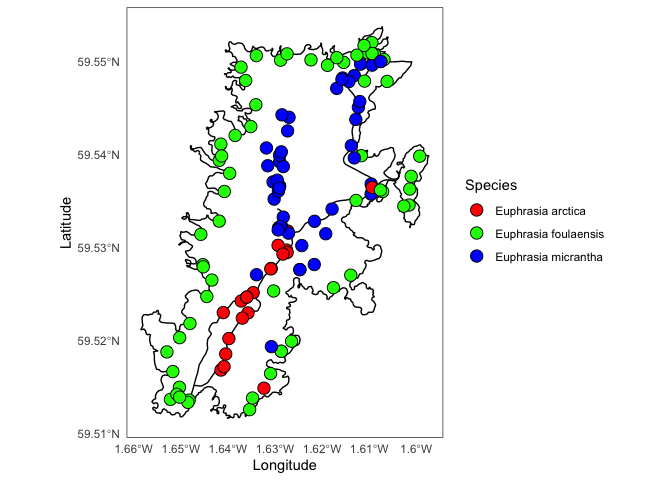
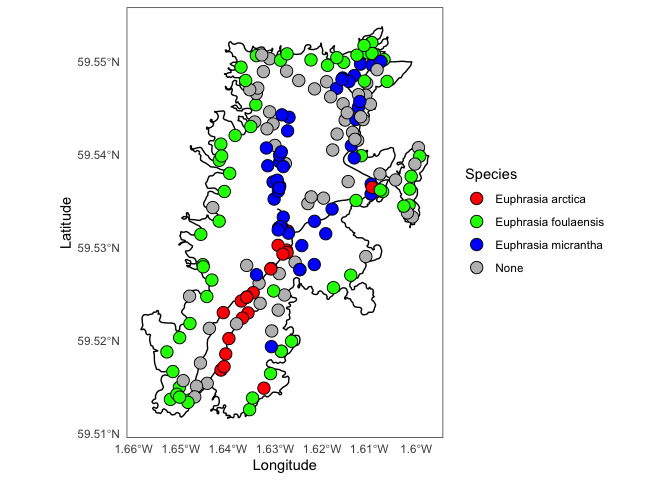
And update README for prettiness.

diff --git a/README.md b/README.md
@@ -1,7 +1,7 @@
 Distribution map of some species of Eyebright on Fair Isle
 ================
 Max R Brown
-13 February, 2020
+16 April, 2020
 
 These maps were created using Open Street Maps, a project that
 distributes free geographic data for the world.
@@ -10,6 +10,3 @@ This is an example map created using the package osmdata, passed to
 ggplot2:
 
 ![](README_files/figure-gfm/unnamed-chunk-1-1.png)<!-- -->
-=======
-![](map.pdf)<!-- -->
-
